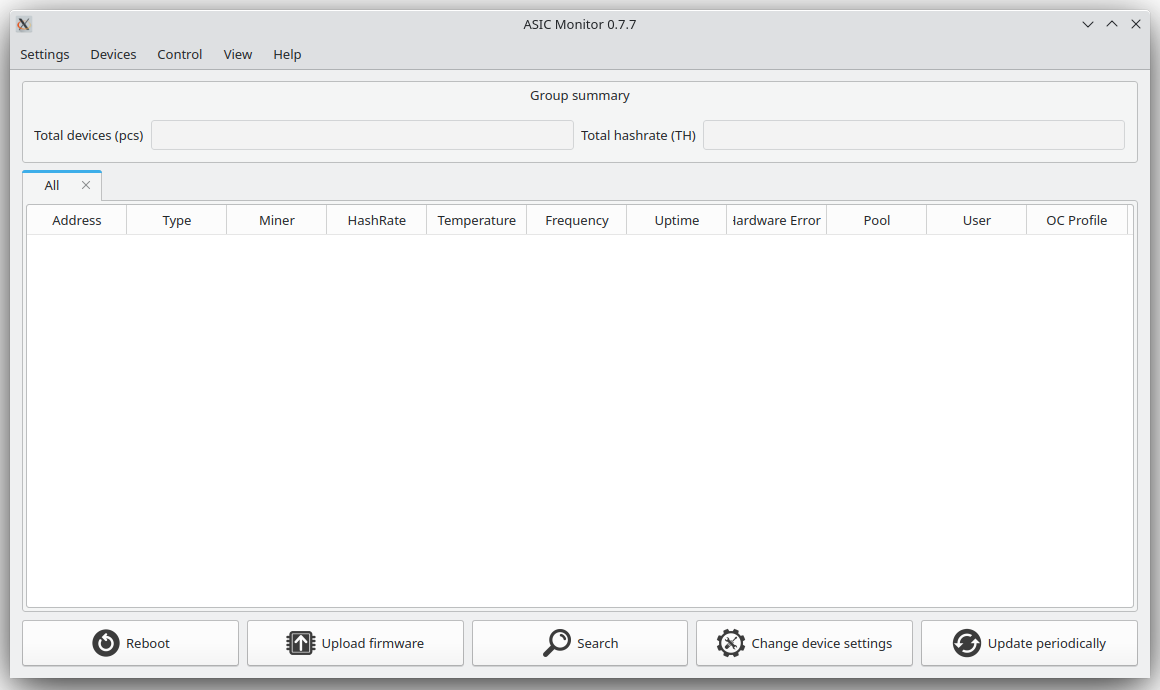
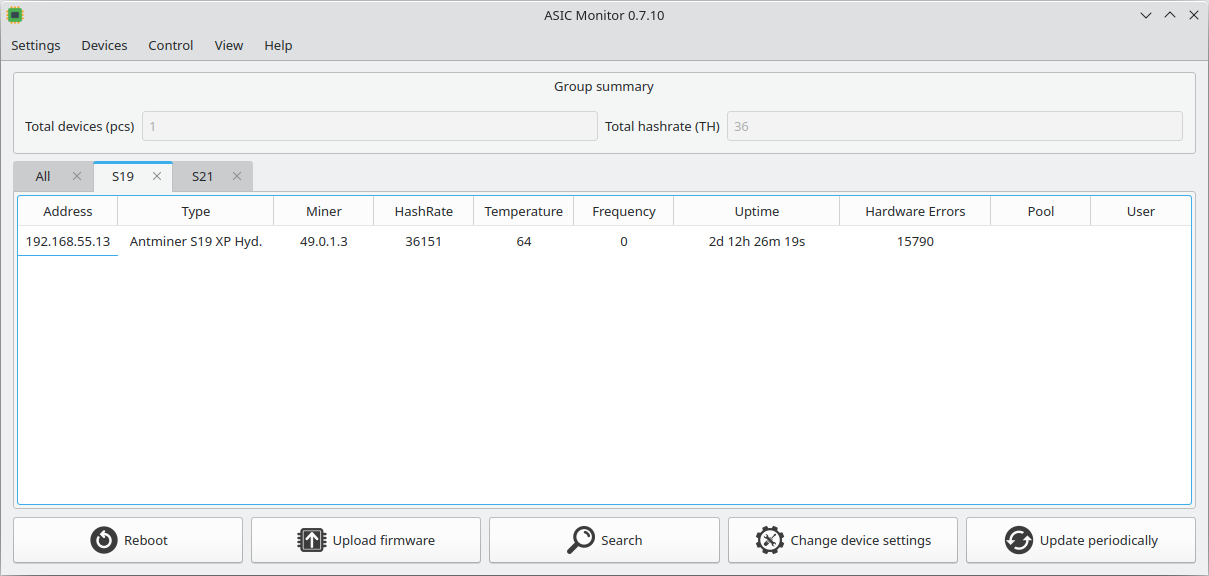
screenshot update

diff --git a/main.hpp b/main.hpp
@@ -1,6 +1,6 @@
 #define PROGRAM_NAME            "ASIC Monitor"
 #define PROGRAM_SHORT_NAME      "asicmon"
-#define PROGRAM_VERSION         "0.7.9"
+#define PROGRAM_VERSION         "0.7.10"
 #define PROGRAM_DESCRIPTION     "ASIC device monitoring and maintenance tool"
 
 #define DEVICE_BOARDS_NUM       16

diff --git a/asicdevice.h b/asicdevice.h
@@ -42,7 +42,6 @@ public:
 	static uint32_t ActiveThreadsNum;
     quint16 WebPort;
     quint16 APIPort;
-    QString HostName;
     QString UserName;
     QString Password;
     QHostAddress Address;
